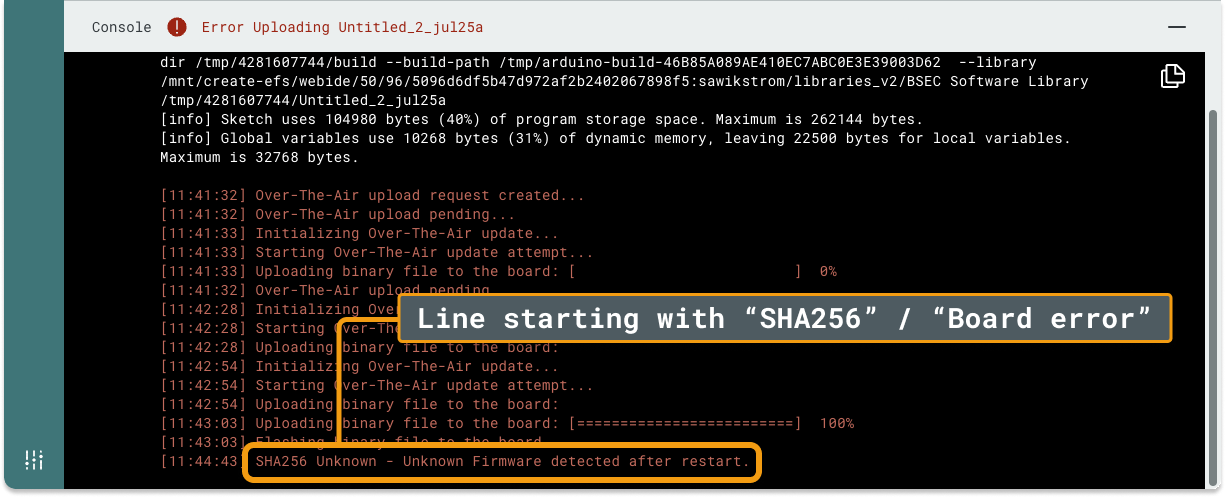
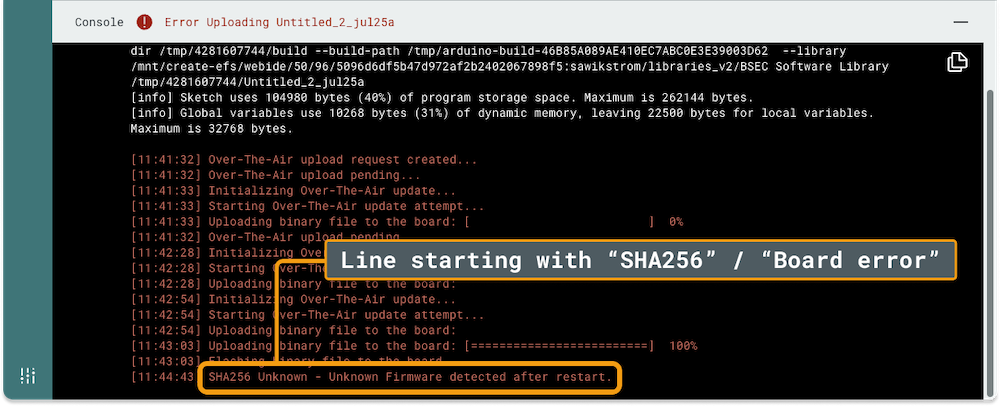
Fix up images (size/alt text)

diff --git a/content/Software Support/IDE Settings/Change-text-and-display-size-settings-in-Arduino-IDE.md b/content/Software Support/IDE Settings/Change-text-and-display-size-settings-in-Arduino-IDE.md
@@ -27,7 +27,7 @@ In this article:
    * **Editor: Font Size** – Controls the editor and output console text size in pixels (default: 12).
    * **Interface scale** – Changes the size of all UI elements (default: 100%)
 
-   <img src="img/IDE-2-preferences.png" width=800px>
+   ![Screenshot of Arduino IDE 2 preferences with Editor font size and Interface scale settings highlighted.](img/IDE-2-preferences.png)
 
 3. Click the **OK** button to confirm the changes.
 
@@ -78,7 +78,7 @@ For more advanced settings, you need to use the
    * **Editor: Font Size** – Controls the editor and output console text size in pixels (default: 12).
    * **Interface scale** – Changes the size of all UI elements (default: 100%).
 
-   <img src="img/IDE-preferences.png" width=800px%>
+   ![Screenshot of Arduino IDE 1 preferences with Editor font size and Interface scale settings highlighted.](img/IDE-preferences.png)
 
 3. Click the **OK** button to confirm the changes.
 

diff --git a/content/Hardware Support/Nano Family/Use-the-built-in-sensors-on-Nano-33-BLE-Sense.md b/content/Hardware Support/Nano Family/Use-the-built-in-sensors-on-Nano-33-BLE-Sense.md
@@ -4,9 +4,10 @@ id: 360014654820
 ---
 
 The Nano 33 BLE Sense has a set of sensors embedded on the top, which gives a lot of options to try ideas without having to generate the circuit to such sensors in a prototyping board.
+
 The sensor location can be checked in the following image, while the specific model and some other details are addressed later in this same article:
 
-<img src ="https://content.arduino.cc/assets/NANO-33-BLE-Sense_sensor-indentification.png" title="Sensors on Nano 33 BLE Sense">
+![Sensors on Nano 33 BLE Sense.](img/NANO-33-BLE-Sense_sensor-indentification.png)
 
 ## Color, brightness, proximity and gesture sensor
 

diff --git a/content/Arduino Cloud/Cloud Editor/If-you-see-an-error-when-performing-an-Over-the-Air-OTA-upload.md b/content/Arduino Cloud/Cloud Editor/If-you-see-an-error-when-performing-an-Over-the-Air-OTA-upload.md
@@ -27,7 +27,7 @@ Follow these steps:
 2. Find the line that starts with "SHA256" or "Board error".
 3. Find the instructions for that error in the [error reference](#errors).
 
-<img src="img/ota-error-sha.png" width=800px/>
+![Screenshot of SHA256 Unknown error in Arduino Cloud.](img/ota-error-sha.png)
 
 ---
 
